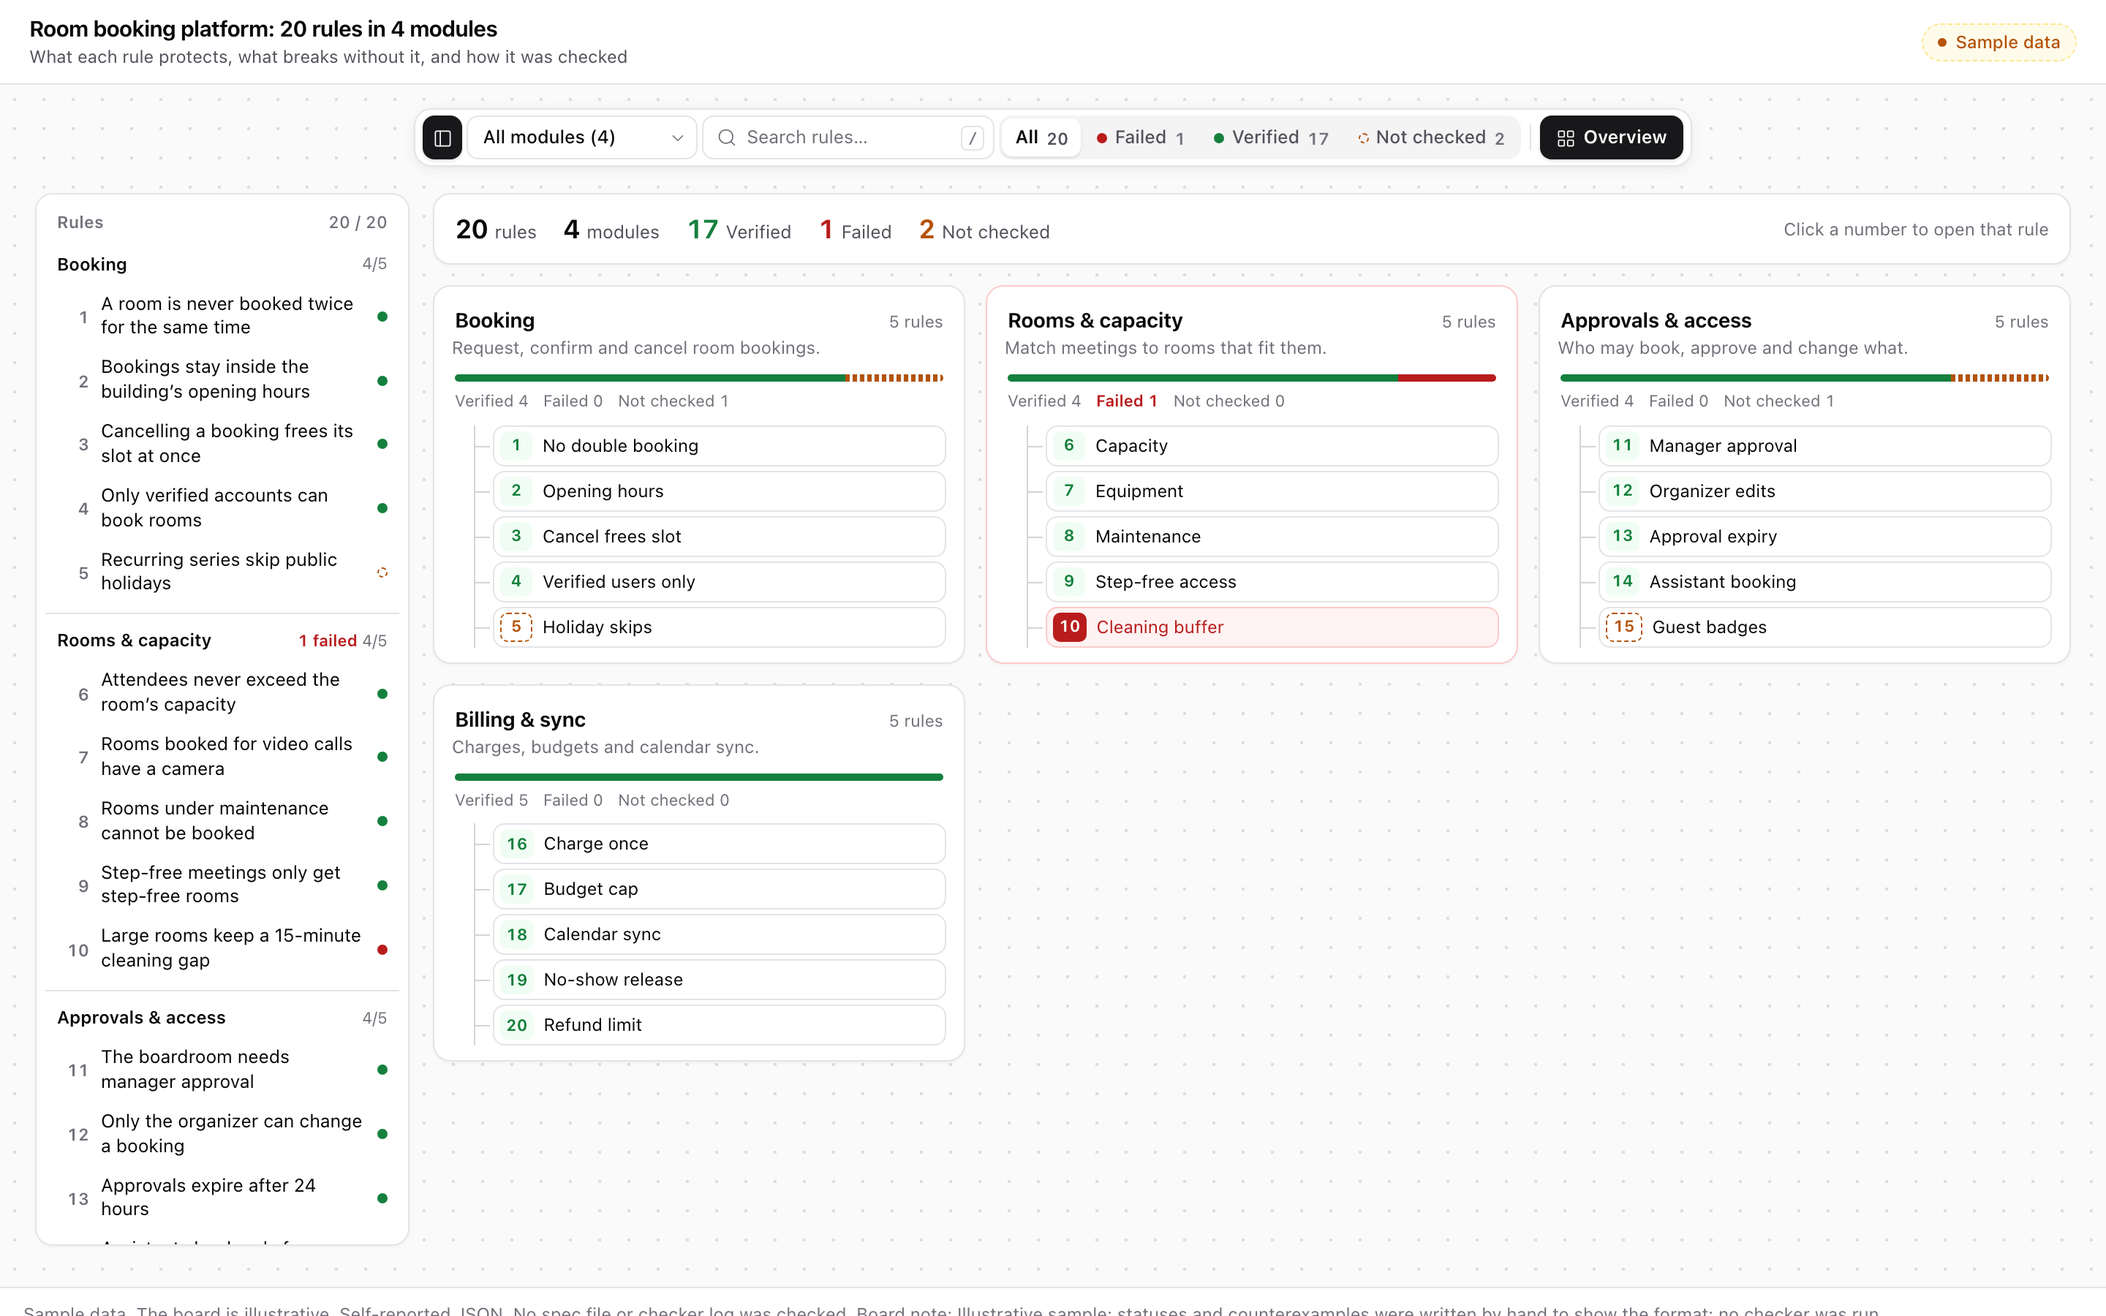
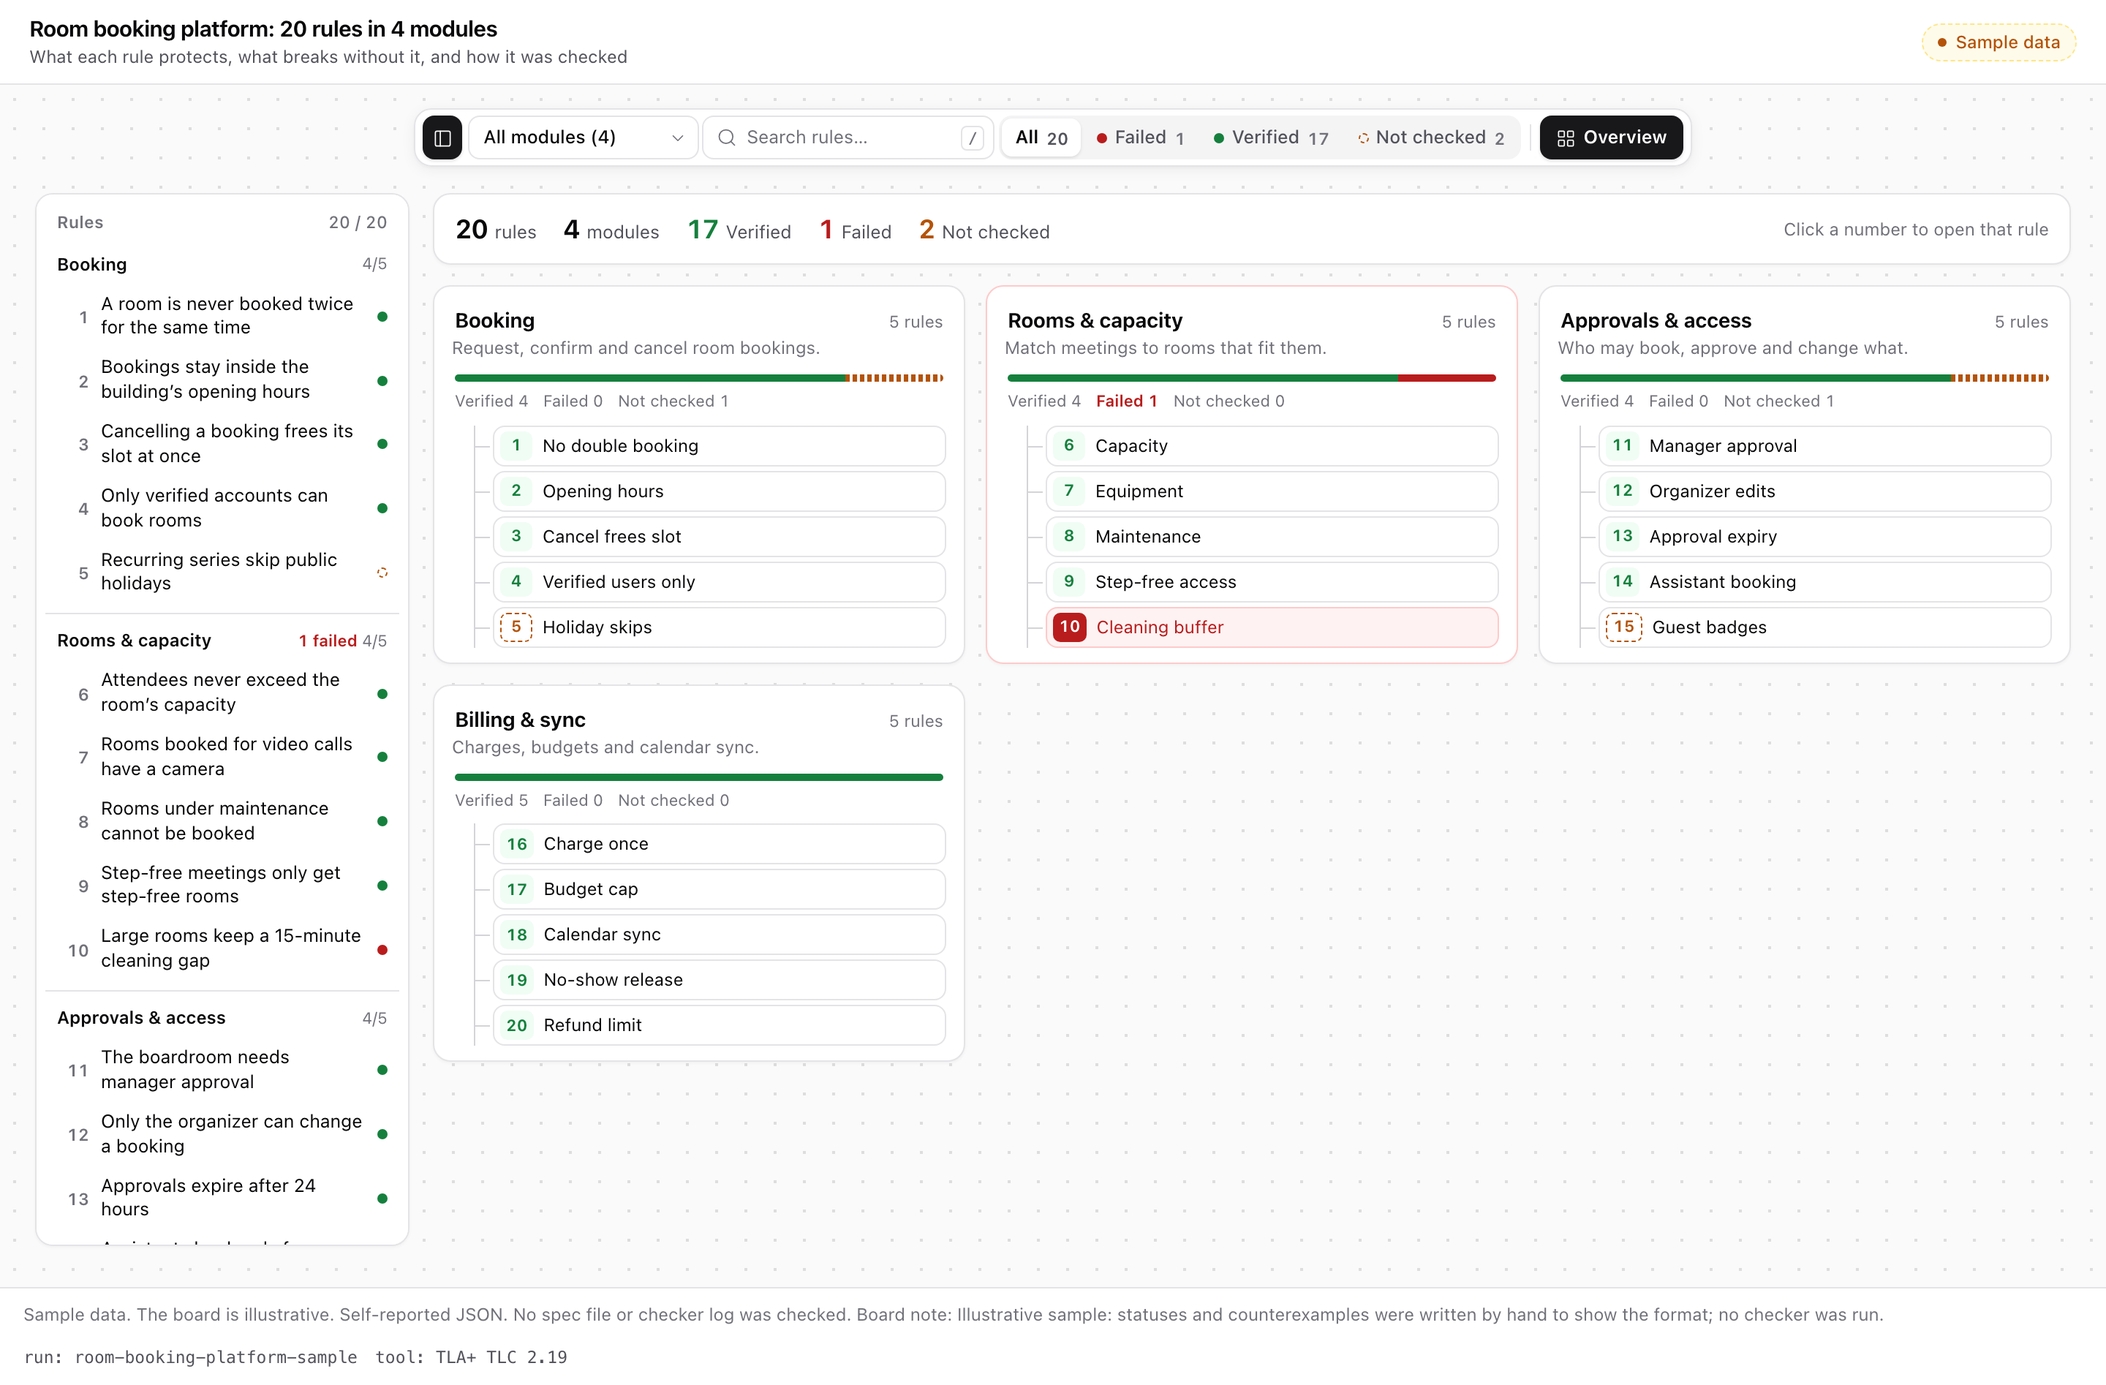
fix(figure): clip bowed relation edges, clear sequence badges, null-prototype id maps
- Relation: clip the sideways-shifted line of a bidirectional pair at each
  node border, so the arrow tip no longer ends inside the target box on
  diagonal pairs.
- Sequence: a right-to-left focus step starts its connector lead right of
  its number badge instead of through it.
- Lane, node and chip lookups use null-prototype maps, so ids such as
  constructor, toString and __proto__ draw like any other id.
- Evidence: "Counterexample without this rule" only for verified rules;
  failed and not-checked rules keep "Counterexample".
- SKILL.md: state which figure kinds get collision warnings, and the
  counterexample heading per status.
- BENCHMARK.md and the README table: re-measured (128 KB small-board budget).
- Recapture 05-overview-20rules.png full page so the footer is not cut off.
- Tests: bowed pair endpoints on node borders, lead clear of the badge,
  constructor / toString / __proto__ ids.

diff --git a/BENCHMARK.md b/BENCHMARK.md
@@ -58,12 +58,12 @@ benchmark measures the renderer, not a verification.
 
 | Tier | Rules / modules | Layout | Mode | Badge | HTML (budget) | Payload | bytes/rule | Render ms | Validate ms | Deterministic | Validator |
 |---|---|---|---|---|---|---|---|---|---|---|---|
-| tier1_3rules | 3 / 0 | compact | standalone | sample | 66.8 KB (100 KB) | JSON | 3293 | 1.52 | 2.94 | yes | PASS |
-| tier1b_escrow | 12 / 3 | index | standalone | failed | 111.4 KB (200 KB) | JSON | 3027 | 1.99 | 3.17 | yes | PASS |
-| tier2_20rules | 20 / 4 | index | standalone | sample | 137.5 KB (200 KB) | JSON | 3101 | 1.88 | 2.74 | yes | PASS |
-| tier3_50rules | 50 / 10 | index | standalone | sample | 244.5 KB (350 KB) | JSON | 3370 | 4.36 | 12.55 | yes | PASS |
-| tier4_100rules | 100 / 20 | index | standalone | sample | 117.8 KB (512 KB) | gzip+base64 | 3380 | 37.96 | 22.91 | yes | PASS |
-| embed_20rules | 20 / 4 | index | embed | sample | 137.4 KB (200 KB) | JSON | 3101 | 2.92 | 2.68 | yes | PASS |
+| tier1_3rules | 3 / 0 | compact | standalone | sample | 73.4 KB (128 KB) | JSON | 3293 | 2.21 | 29.54 | yes | PASS |
+| tier1b_escrow | 12 / 3 | index | standalone | failed | 117.1 KB (200 KB) | JSON | 3027 | 4.84 | 2.54 | yes | PASS |
+| tier2_20rules | 20 / 4 | index | standalone | sample | 143.2 KB (200 KB) | JSON | 3101 | 4.86 | 15.84 | yes | PASS |
+| tier3_50rules | 50 / 10 | index | standalone | sample | 250.2 KB (350 KB) | JSON | 3370 | 7.97 | 10.89 | yes | PASS |
+| tier4_100rules | 100 / 20 | index | standalone | sample | 123.5 KB (512 KB) | gzip+base64 | 3380 | 31.4 | 20.84 | yes | PASS |
+| embed_20rules | 20 / 4 | index | embed | sample | 143.1 KB (200 KB) | JSON | 3101 | 3.75 | 7.75 | yes | PASS |
 
 `bytes/rule` is the raw JSON size of the rules divided by their count. Every tier passes the
 validator with zero warnings.
@@ -72,17 +72,17 @@ validator with zero warnings.
 
 | Tier | Viewport | DOMContentLoaded ms | App ready ms | DOM nodes | JS heap MB | Views swept | Min SVG text units (px) | SVG text overflow | Connector overlap px | Clipped labels | Page overflow px | Toolbar rows | Index open at load | Errors (console / page) | External requests | CJK chars |
 |---|---|---|---|---|---|---|---|---|---|---|---|---|---|---|---|---|
-| tier1_3rules | 1280x800 | 253.3 | 252.9 | 170 | 2 | 9 | 13.9 (13.9) | 0 | 0 | 0 | 0 | 1 | true | 0 / 0 | 0 | 0 |
-| tier1_3rules | 1440x900 | 24.5 | 24.3 | 170 | 2 | 9 | 13.9 (13.9) | 0 | 0 | 0 | 0 | 1 | true | 0 / 0 | 0 | 0 |
-| tier1b_escrow | 1280x800 | 44.3 | 44 | 288 | 2.05 | 36 | 13.1 (9.9) | 0 | 0 | 0 | 0 | 1 | true | 0 / 0 | 0 | 0 |
-| tier1b_escrow | 1440x900 | 35.3 | 35.1 | 288 | 2.05 | 36 | 13.1 (11.4) | 0 | 0 | 0 | 0 | 1 | true | 0 / 0 | 0 | 0 |
-| tier2_20rules | 1280x800 | 34.4 | 34.3 | 339 | 2.18 | 60 | 13.2 (10) | 0 | 0 | 0 | 0 | 1 | true | 0 / 0 | 0 | 0 |
-| tier2_20rules | 1440x900 | 32.7 | 32.5 | 339 | 2.18 | 60 | 13.2 (11.5) | 0 | 0 | 0 | 0 | 1 | true | 0 / 0 | 0 | 0 |
-| tier3_50rules | 1280x800 | 31.7 | 31.6 | 530 | 2.32 | 150 | 13 (9.8) | 0 | 0 | 0 | 0 | 1 | true | 0 / 0 | 0 | 0 |
-| tier3_50rules | 1440x900 | 29.1 | 28.9 | 530 | 2.32 | 150 | 13 (11.3) | 0 | 0 | 0 | 0 | 1 | true | 0 / 0 | 0 | 0 |
-| tier4_100rules | 1280x800 | 7.8 | 35.2 | 852 | 2.43 | 300 | 13 (9.8) | 0 | 0 | 0 | 0 | 1 | true | 0 / 0 | 0 | 0 |
-| tier4_100rules | 1440x900 | 7.3 | 32.9 | 852 | 2.44 | 300 | 13 (11.3) | 0 | 0 | 0 | 0 | 1 | true | 0 / 0 | 0 | 0 |
-| embed_20rules | 900x700 | 40.8 | 40.6 | 332 | 2.17 | 60 | 13.2 (13.2) | 0 | 0 | 0 | 0 | 1 | false | 0 / 0 | 0 | 0 |
+| tier1_3rules | 1280x800 | 189.3 | 189.1 | 200 | 2.01 | 9 | 13.9 (13.9) | 0 | 0 | 0 | 0 | 1 | true | 0 / 0 | 0 | 0 |
+| tier1_3rules | 1440x900 | 26.8 | 26.7 | 200 | 2.01 | 9 | 13.9 (13.9) | 0 | 0 | 0 | 0 | 1 | true | 0 / 0 | 0 | 0 |
+| tier1b_escrow | 1280x800 | 65.5 | 53.8 | 313 | 2.06 | 36 | 13.1 (9.9) | 0 | 0 | 0 | 0 | 1 | true | 0 / 0 | 0 | 0 |
+| tier1b_escrow | 1440x900 | 46.1 | 45.8 | 313 | 2.06 | 36 | 13.1 (11.4) | 0 | 0 | 0 | 0 | 1 | true | 0 / 0 | 0 | 0 |
+| tier2_20rules | 1280x800 | 46.6 | 46.4 | 365 | 2.19 | 60 | 13.2 (10) | 0 | 0 | 0 | 0 | 1 | true | 0 / 0 | 0 | 0 |
+| tier2_20rules | 1440x900 | 36.2 | 36.1 | 365 | 2.19 | 60 | 13.2 (11.5) | 0 | 0 | 0 | 0 | 1 | true | 0 / 0 | 0 | 0 |
+| tier3_50rules | 1280x800 | 47.1 | 46.8 | 549 | 2.33 | 150 | 13 (9.8) | 0 | 0 | 0 | 0 | 1 | true | 0 / 0 | 0 | 0 |
+| tier3_50rules | 1440x900 | 36.4 | 35.9 | 549 | 2.33 | 150 | 13 (11.3) | 0 | 0 | 0 | 0 | 1 | true | 0 / 0 | 0 | 0 |
+| tier4_100rules | 1280x800 | 11 | 43 | 858 | 2.4 | 300 | 13 (9.8) | 0 | 0 | 0 | 0 | 1 | true | 0 / 0 | 0 | 0 |
+| tier4_100rules | 1440x900 | 9.6 | 36.8 | 858 | 2.42 | 300 | 13 (11.3) | 0 | 0 | 0 | 0 | 1 | true | 0 / 0 | 0 | 0 |
+| embed_20rules | 900x700 | 34.3 | 33.8 | 358 | 2.18 | 60 | 13.2 (13.2) | 0 | 0 | 0 | 0 | 1 | false | 0 / 0 | 0 | 0 |
 
 "Index open at load" is `true` for the compact tier because the flag is simply unused there.
 
@@ -100,17 +100,17 @@ Pages built only for these checks (`out/bench/check_*.html`).
 
 | Tier | Viewport | switch rule | toggle normal/bug/fixed | toggle Evidence | toggle Overview | switch module | filter failed only | search keyword |
 |---|---|---|---|---|---|---|---|---|
-| tier1_3rules | 1280x800 | 1.4 (frame 14.5) | 1.4 (frame 14.1) | 1.6 (frame 13.8) | 2.3 (frame 16) | n/a | n/a | n/a |
-| tier1_3rules | 1440x900 | 1.5 (frame 13.7) | 1.5 (frame 11.7) | 1.6 (frame 15.3) | 2.7 (frame 13.6) | n/a | n/a | n/a |
-| tier1b_escrow | 1280x800 | 1.9 (frame 14.7) | 1.7 (frame 14.7) | 2.1 (frame 12.4) | 1.6 (frame 14.7) | 1.7 (frame 12.9) | 1.6 (frame 14.8) | 1.8 (frame 13.2) |
-| tier1b_escrow | 1440x900 | 2 (frame 13.1) | 1.8 (frame 13.1) | 2.1 (frame 12.1) | 1.5 (frame 11.8) | 1.9 (frame 11.5) | 1.7 (frame 13.2) | 1.7 (frame 13.1) |
-| tier2_20rules | 1280x800 | 2.1 (frame 13.8) | 2.1 (frame 10.7) | 2.3 (frame 10.4) | 2 (frame 10) | 3.7 (frame 14.5) | 1.6 (frame 13.1) | 1.8 (frame 14.7) |
-| tier2_20rules | 1440x900 | 2.1 (frame 13.1) | 2.2 (frame 13.5) | 2.2 (frame 13.9) | 1.9 (frame 11.4) | 2 (frame 13.1) | 1.7 (frame 13.8) | 1.8 (frame 12.8) |
-| tier3_50rules | 1280x800 | 2.6 (frame 14.1) | 2.5 (frame 13) | 2.7 (frame 14.1) | 3 (frame 13.3) | 1.8 (frame 11.6) | 1.8 (frame 14.9) | 1.9 (frame 13.5) |
-| tier3_50rules | 1440x900 | 2.4 (frame 13.3) | 2.8 (frame 13.3) | 3.3 (frame 12.8) | 4.5 (frame 10.7) | 1.9 (frame 12.7) | 1.8 (frame 13.6) | 1.9 (frame 12) |
-| tier4_100rules | 1280x800 | 3.8 (frame 12.6) | 3.5 (frame 11.4) | 3.5 (frame 8.5) | 5.3 (frame 12.2) | 1.9 (frame 12.6) | 2.1 (frame 12.4) | 2.3 (frame 10.2) |
-| tier4_100rules | 1440x900 | 3.7 (frame 12.1) | 3.5 (frame 12.4) | 4 (frame 10.9) | 5.2 (frame 12.4) | 2 (frame 12.7) | 1.9 (frame 10.2) | 2.2 (frame 11.9) |
-| embed_20rules | 900x700 | 1.4 (frame 11.2) | 1.6 (frame 11.9) | 3.2 (frame 10.6) | 2.1 (frame 11.3) | 1.8 (frame 12.6) | 3 (frame 10.1) | 1.7 (frame 9.4) |
+| tier1_3rules | 1280x800 | 3 (frame 16) | 2.2 (frame 10.2) | 1.8 (frame 10.3) | 2.7 (frame 18.3) | n/a | n/a | n/a |
+| tier1_3rules | 1440x900 | 1.6 (frame 6.6) | 1.6 (frame 12.6) | 1.6 (frame 13.3) | 2.6 (frame 16.4) | n/a | n/a | n/a |
+| tier1b_escrow | 1280x800 | 2 (frame 12.7) | 2.1 (frame 14.2) | 2.4 (frame 10.7) | 2 (frame 12.6) | 2.3 (frame 8.3) | 1.9 (frame 13.7) | 1.9 (frame 10.1) |
+| tier1b_escrow | 1440x900 | 2.4 (frame 12.7) | 2.8 (frame 11.3) | 2.2 (frame 13) | 1.7 (frame 11.4) | 3 (frame 11) | 1.9 (frame 12.3) | 2 (frame 12.8) |
+| tier2_20rules | 1280x800 | 3 (frame 11.6) | 4.8 (frame 10.6) | 2.6 (frame 12.2) | 3.1 (frame 12.8) | 4.1 (frame 13.5) | 3.3 (frame 10.8) | 2 (frame 12.4) |
+| tier2_20rules | 1440x900 | 2.2 (frame 11.1) | 2.5 (frame 12.1) | 2.7 (frame 11) | 2.3 (frame 10.3) | 2.2 (frame 11.2) | 2 (frame 10.6) | 2.4 (frame 8.5) |
+| tier3_50rules | 1280x800 | 4.3 (frame 14.2) | 3.7 (frame 8.9) | 2.8 (frame 8.5) | 7.3 (frame 11.5) | 4 (frame 11.8) | 3.6 (frame 11.8) | 2.9 (frame 11.3) |
+| tier3_50rules | 1440x900 | 4.6 (frame 11.8) | 4 (frame 11.4) | 5 (frame 10.9) | 3.1 (frame 14.4) | 2.3 (frame 11.6) | 2 (frame 11.4) | 2.8 (frame 10.2) |
+| tier4_100rules | 1280x800 | 4 (frame 13.6) | 4.9 (frame 9.5) | 4.3 (frame 9.1) | 8.2 (frame 14) | 2.1 (frame 12.5) | 4.7 (frame 11.3) | 2.6 (frame 15.1) |
+| tier4_100rules | 1440x900 | 4.2 (frame 12.4) | 4.9 (frame 12.4) | 3.5 (frame 11.6) | 6 (frame 14) | 2.7 (frame 9.7) | 2.6 (frame 11.7) | 2.5 (frame 11.3) |
+| embed_20rules | 900x700 | 2 (frame 12.2) | 2.1 (frame 11.4) | 2.2 (frame 12.6) | 1.7 (frame 12.7) | 2.5 (frame 12.7) | 2.3 (frame 12.8) | 3.2 (frame 13.4) |
 
 ## Screenshots
 
@@ -131,33 +131,33 @@ Pages built only for these checks (`out/bench/check_*.html`).
 
 ### What scales well
 
-- **Load.** Every page is interactive in under 45 ms, except the very first page this browser
-  process opened (tier1 at 1280x800: 253 ms in this run, 35.7 ms in the previous one), which
+- **Load.** Every page is interactive in under 55 ms, except the very first page this browser
+  process opened (tier1 at 1280x800: 189 ms in this run, 253 ms in an earlier one), which
   looks like a cold start. Plain-JSON boards are ready when DOMContentLoaded fires; the gzip
-  board adds about 26-27 ms for `DecompressionStream` and `JSON.parse` (tier4: DOMContentLoaded
-  7.3-7.8 ms, App ready 32.9-35.2 ms).
-- **DOM and memory.** Nodes grow roughly linearly with rules (170 -> 852) and the heap stays at
+  board adds about 27-32 ms for `DecompressionStream` and `JSON.parse` (tier4: DOMContentLoaded
+  9.6-11 ms, App ready 36.8-43 ms).
+- **DOM and memory.** Nodes grow roughly linearly with rules (200 -> 858) and the heap stays at
   2.0-2.4 MB.
 - **Layout.** Across 1,170 swept views (every rule in every state, every viewport) no figure
   text leaves its box, no connector pill touches a card, no label is clipped, the page never
   scrolls sideways and the toolbar stays on one row, including at 900x700 in embed mode.
-- **Latency.** The worst sync median is 5.3 ms (Overview at 100 rules). "frame" values (about
-  8-16 ms) are dominated by waiting for the next animation frame, not by work.
+- **Latency.** The worst sync median is 8.2 ms (Overview at 100 rules, 1280x800). "frame"
+  values (about 7-18 ms) are dominated by waiting for the next animation frame, not by work.
 
 ### Bottlenecks
 
-1. **Payload dominates file size beyond about 15 rules.** At tier4 the HTML is 37.0 KB payload
-   (gzip + base64), 36.1 KB JS, 32.3 KB CSS and 6.5 KB `<noscript>` text; the compact layout
-   ships 28.5 KB JS and 22.0 KB CSS. The same 100-rule board as plain JSON is 415.1 KB, under
-   the 512 KB limit; 200 rules are 749.2 KB as plain JSON and 177.2 KB with gzip, which is why
+1. **Payload dominates file size beyond about 15 rules.** At tier4 the HTML is 37.1 KB payload
+   (gzip + base64), 39.9 KB JS, 34.0 KB CSS and 6.5 KB `<noscript>` text; the compact layout
+   ships 32.2 KB JS and 24.7 KB CSS. The same 100-rule board as plain JSON is 420.8 KB, under
+   the 512 KB limit; 200 rules are 754.9 KB as plain JSON and 182.8 KB with gzip, which is why
    `auto` switches to gzip above 192 KB (covered by a self-test).
 2. **Full re-render of the index.** The index is rebuilt with `innerHTML` on every state
-   change, so its cost is linear in rule count: switch rule and Overview go from about 2 ms at
-   20 rules to 3.7-5.3 ms at 100. That is fine up to a few hundred rules; above about 1,000 rules
+   change, so its cost is linear in rule count: switch rule and Overview go from about 2-3 ms at
+   20 rules to 4-8 ms at 100. That is fine up to a few hundred rules; above about 1,000 rules
    the index would need virtualization or keyed updates. This is an extrapolation: 1,000+ rules
    were not measured.
-3. **Node render time is gzip.** tier4 renders in 22-38 ms (two runs) against 1.5-4.4 ms for
-   the JSON tiers; most of the difference is `gzipSync` at level 9.
+3. **Node render time is gzip.** tier4 renders in 31.4 ms (22-38 ms in earlier runs) against
+   2.2-8.0 ms for the JSON tiers; most of the difference is `gzipSync` at level 9.
 4. **Small text at 1280 wide.** With the rule index open at 1280x800, the focus figure is drawn
    at about 75% scale, so its smallest text (13 units) is 9.8-10 px on screen. At 1440x900 it
    is 11.3 px or more. A layout that keeps the figure larger at 1280 was not attempted.
@@ -173,8 +173,8 @@ compress far better:
 | Synthetic (tier4, 100 rules) | 3380 | 0.083 |
 
 Projection for 100 rules at hand-written density: about 310 KB raw JSON -> about 55 KB gzip ->
-about 74 KB base64, plus about 81 KB of shell (JS, CSS, `<noscript>` and markup) = about
-**154 KB**, well below 512 KB. This is a projection, not a measurement.
+about 74 KB base64, plus about 86 KB of shell (JS, CSS, `<noscript>` and markup) = about
+**160 KB**, well below 512 KB. This is a projection, not a measurement.
 
 ## Caveats
 

diff --git a/skills/proof-canvas/SKILL.md b/skills/proof-canvas/SKILL.md
@@ -153,8 +153,11 @@ validator warning (typos such as `counterExample` are caught), and top-level key
 **`figure`**
 
 Pick the kind that shows what the checker proved. `figure.kind` is optional and defaults to
-`gate`. Every kind draws into the same canvas, and the figure text that cannot fit, or a label
-that collides with another label, line, or box, produces a validator warning.
+`gate`. Every kind draws into the same canvas. The validator warns when figure text cannot fit:
+a box, lane or node label, a chip, or a line label too long for its free length. `gate` and
+`sequence` use fixed slots, so only fit is checked. `relation` also warns when a line label
+overlaps another label or a node, when a line crosses a node it does not connect, or when a line
+crosses another line's label. Line-on-line crossings are not checked.
 
 | Kind | Use for | Fields |
 |---|---|---|
@@ -211,7 +214,7 @@ By figure kind (chip `tone` is `neutral \| good \| bad`):
 | `scope` | string | Bounds of the check (model size, ranges, number of runs). |
 | `method` | string | How it was checked (exhaustive model checking, bounded simulation, property-based testing with N runs, and so on). |
 | `sourceQuote` | optional string | Verbatim text of the source the rule comes from. |
-| `counterexample` | optional string | Checker trace. On a failed rule it is the failure and shows under **Counterexample**. On a verified rule, use it for the trace of the rule switched off (for example a killed mutant); it shows under **Counterexample without this rule**. When a verified rule has none, the section is left out. |
+| `counterexample` | optional string | Checker trace. On a failed or not-checked rule it shows under **Counterexample** ("No counterexample recorded" when absent). On a verified rule, use it for the trace of the rule switched off (for example a killed mutant); it shows under **Counterexample without this rule**. When a verified rule has none, the section is left out. |
 
 ## 2. Render
 

diff --git a/README.md b/README.md
@@ -173,12 +173,12 @@ Apple M3, Node 24, headless Chromium 159. Full method, every viewport and the an
 
 | Rules / modules | Layout | HTML | Payload | Render | App ready | DOM nodes | Worst interaction (sync) | Layout defects in sweep | Errors |
 |---|---|---|---|---|---|---|---|---|---|
-| 3 / none | compact | 66.8 KB | JSON | 1.5 ms | 24 ms* | 170 | 2.7 ms | 0 | 0 |
-| 12 / 3 | index | 111.4 KB | JSON | 2.0 ms | 35-44 ms | 288 | 2.1 ms | 0 | 0 |
-| 20 / 4 | index | 137.5 KB | JSON | 1.9 ms | 33-34 ms | 339 | 3.7 ms | 0 | 0 |
-| 50 / 10 | index | 244.5 KB | JSON | 4.4 ms | 29-32 ms | 530 | 4.5 ms | 0 | 0 |
-| 100 / 20 | index | 117.8 KB | gzip | 38.0 ms | 33-35 ms | 852 | 5.3 ms | 0 | 0 |
-| 20 / 4, embed at 900x700 | index | 137.4 KB | JSON | 2.9 ms | 41 ms | 332 | 3.2 ms | 0 | 0 |
+| 3 / none | compact | 73.4 KB | JSON | 2.2 ms | 27 ms* | 200 | 3.0 ms | 0 | 0 |
+| 12 / 3 | index | 117.1 KB | JSON | 4.8 ms | 46-54 ms | 313 | 3.0 ms | 0 | 0 |
+| 20 / 4 | index | 143.2 KB | JSON | 4.9 ms | 36-46 ms | 365 | 4.8 ms | 0 | 0 |
+| 50 / 10 | index | 250.2 KB | JSON | 8.0 ms | 36-47 ms | 549 | 7.3 ms | 0 | 0 |
+| 100 / 20 | index | 123.5 KB | gzip | 31.4 ms | 37-43 ms | 858 | 8.2 ms | 0 | 0 |
+| 20 / 4, embed at 900x700 | index | 143.1 KB | JSON | 3.8 ms | 34 ms | 358 | 3.2 ms | 0 | 0 |
 
 "Layout defects in sweep" counts, over every rule in every state, figure text leaving its box,
 connector pills overlapping a card, clipped labels and horizontal page overflow.
